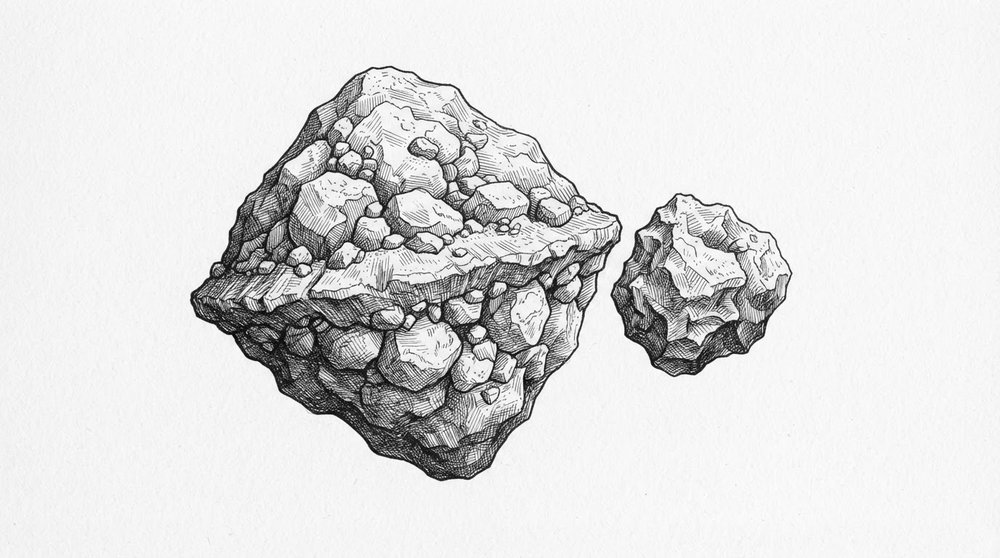
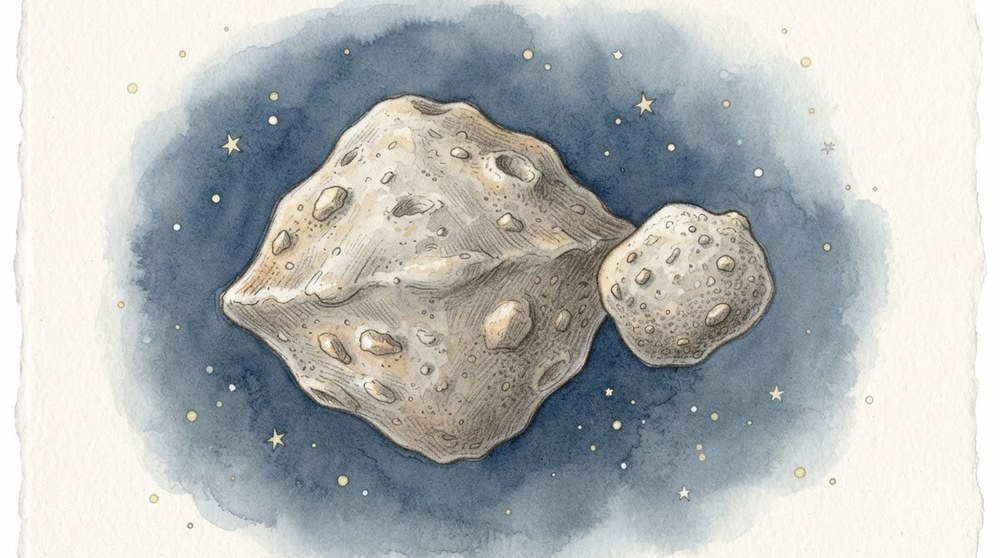
v185: 신문 그림을 색 그대로(화면·종이), 제9호 그림을 색연필·수채 그림으로 교체(바다돼지 그림 추가)
Claude-Session: https://claude.ai/code/session_01BERWee5SW6nSaidm893bbT

diff --git a/gunggeum/index.html b/gunggeum/index.html
@@ -1573,13 +1573,13 @@ body { word-break: keep-all; overflow-wrap: break-word; }
       <div class="note" id="pinNote"></div>
     </form>
   </div>
-  <footer class="foot"><div class="inner"><i></i> 모르는 낱말은 눌러 보기 <b>·</b> 답은 소리로도 들려줘 <b>·</b> <span style="opacity:.6">v184</span></div></footer>
+  <footer class="foot"><div class="inner"><i></i> 모르는 낱말은 눌러 보기 <b>·</b> 답은 소리로도 들려줘 <b>·</b> <span style="opacity:.6">v185</span></div></footer>
 </div>
 
 <section class="log" id="log" hidden>
   <div class="log-in">
     <div class="log-head">
-      <h2>부모님 화면 <small style="font-size:.6em;opacity:.55;font-weight:400">v184</small></h2>
+      <h2>부모님 화면 <small style="font-size:.6em;opacity:.55;font-weight:400">v185</small></h2>
       <div class="row"><button class="chip" id="fsBtn" type="button">전체 화면으로</button><button class="chip" id="logClose" type="button">닫기</button></div>
     </div>
     <div class="card" id="installCard">
@@ -4166,7 +4166,7 @@ ${lines.slice(-120).join('\n')}` }], { maxTokens: 600 });
   new MutationObserver(() => { const st = document.querySelector('.app').dataset.state; $('loCap').textContent = st === 'listen' ? '듣고 있어' : st === 'think' ? '생각하는 중…' : ''; }).observe(document.querySelector('.app'), { attributes: true, attributeFilter: ['data-state'] });
   // ---------- 진단 기록 (v67) ----------
   // 배터리·화면켜짐·대기화면·오류·서버 응답을 시간순으로 이 기기에 저장 (최근 400개)
-  const DIAG_KEY = 'gk-diag', BAT_KEY = 'gk-bat', APP_V = 'v184';
+  const DIAG_KEY = 'gk-diag', BAT_KEY = 'gk-bat', APP_V = 'v185';
   const pad2 = n => String(n).padStart(2, '0');
   const stamp = (t = new Date()) => `${t.getMonth() + 1}/${t.getDate()} ${pad2(t.getHours())}:${pad2(t.getMinutes())}:${pad2(t.getSeconds())}`;
   function diag(kind, msg) {
@@ -4803,7 +4803,7 @@ ${lines.slice(-120).join('\n')}` }], { maxTokens: 600 });
 .rn-lab{font:700 22px/28px var(--sans);letter-spacing:.1em;color:var(--nk)}
 .rn-lab i{font-style:normal;font-weight:500;letter-spacing:.04em;color:var(--nk2)} .rn-lab i::before{content:" · "}
 .rn-fig{margin:0;min-height:0;overflow:hidden}
-.rn-fig img{display:block;width:100%;height:100%;object-fit:cover;mix-blend-mode:multiply;filter:grayscale(1) brightness(1.07) contrast(1.12)}
+.rn-fig img{display:block;width:100%;height:100%;object-fit:cover;mix-blend-mode:multiply;filter:brightness(1.04) contrast(1.04)} /* v185: 그림을 색 그대로(색연필·수채). 예전 호의 펜 그림은 파일이 흑백이라 그대로 흑백 */
 .rn-cap{font:600 22px/30px var(--sans);letter-spacing:.02em;color:var(--nk2);margin-top:6px}
 .rn-box{position:relative;border:1px solid var(--nk);padding:14px 18px 10px;margin-top:22px}
 .rn-box > .rn-lab{position:absolute;left:12px;top:-15px;background:var(--sheet);padding:0 8px}

diff --git a/gunggeum/tools/paper-render.js b/gunggeum/tools/paper-render.js
@@ -1,6 +1,6 @@
 // 루아 신문 종이판 → 인쇄용 파일 (v185)
 // 쓰임: node tools/paper-render.js [YYYY-MM-DD]   (날짜를 빼면 news/latest.json)
-// 결과: news/paper/<날짜>-1.jpg, -2.jpg (A4 300dpi 회색조), <날짜>.pdf, latest.json(폴드4 자동 인쇄가 읽는 목록)
+// 결과: news/paper/<날짜>-1.jpg, -2.jpg (A4 300dpi 컬러), <날짜>.pdf, latest.json(폴드4 자동 인쇄가 읽는 목록)
 // 깃허브 Actions(.github/workflows/rua-paper.yml)가 새 신문이 올라올 때마다 돌린다. 14일 지난 파일은 지운다.
 const { chromium } = require('playwright');
 const fs = require('fs'), http = require('http'), path = require('path');
@@ -15,7 +15,7 @@ const want = process.argv[2] || '';
   const b = await chromium.launch();
   const p = await b.newPage({ viewport: { width: 900, height: 1200 }, deviceScaleFactor: 300 / 96 });
   const errs = []; p.on('pageerror', e => errs.push(e.message)); p.on('requestfailed', q => errs.push('못 받음 ' + q.url()));
-  await p.goto(`http://localhost:${port}/paper.html?d=${date}&ink=1`);
+  await p.goto(`http://localhost:${port}/paper.html?d=${date}`);
   await p.waitForFunction(() => document.body.dataset.ready === '1', null, { timeout: 30000 });
   if (errs.length) throw new Error(errs.join(' / '));
   fs.mkdirSync(OUT, { recursive: true });

diff --git a/gunggeum/paper.html b/gunggeum/paper.html
@@ -35,7 +35,7 @@ h2{font-size:21pt;margin-bottom:2mm}
 .body b{font-weight:700;border-bottom:.3mm solid var(--ink)}
 .src{font-family:"Pretendard",sans-serif;font-size:8pt;color:var(--ink2);margin:1.4mm 0 0}
 figure{margin:0}
-figure img{width:100%;display:block;filter:grayscale(1) contrast(1.05);border:.2mm solid #bbb}
+figure img{width:100%;display:block}
 figcaption{font-family:"Pretendard",sans-serif;font-size:8.5pt;color:var(--ink2);margin-top:1.2mm}
 .lead{padding-bottom:4.4mm;border-bottom:.25mm solid var(--rule)}
 .lead .row{display:grid;grid-template-columns:1fr 54mm;gap:0 6mm}

diff --git a/gunggeum/sw.js b/gunggeum/sw.js
@@ -1,5 +1,5 @@
 // 궁금칸 — network first, cache as fallback (so updates arrive right away)
-const CACHE = 'gk-v184';
+const CACHE = 'gk-v185';
 self.addEventListener('install', e => { self.skipWaiting(); });
 self.addEventListener('activate', e => { e.waitUntil(caches.keys().then(ks => Promise.all(ks.filter(k => k !== CACHE).map(k => caches.delete(k)))).then(() => self.clients.claim())); });
 self.addEventListener('fetch', e => {
